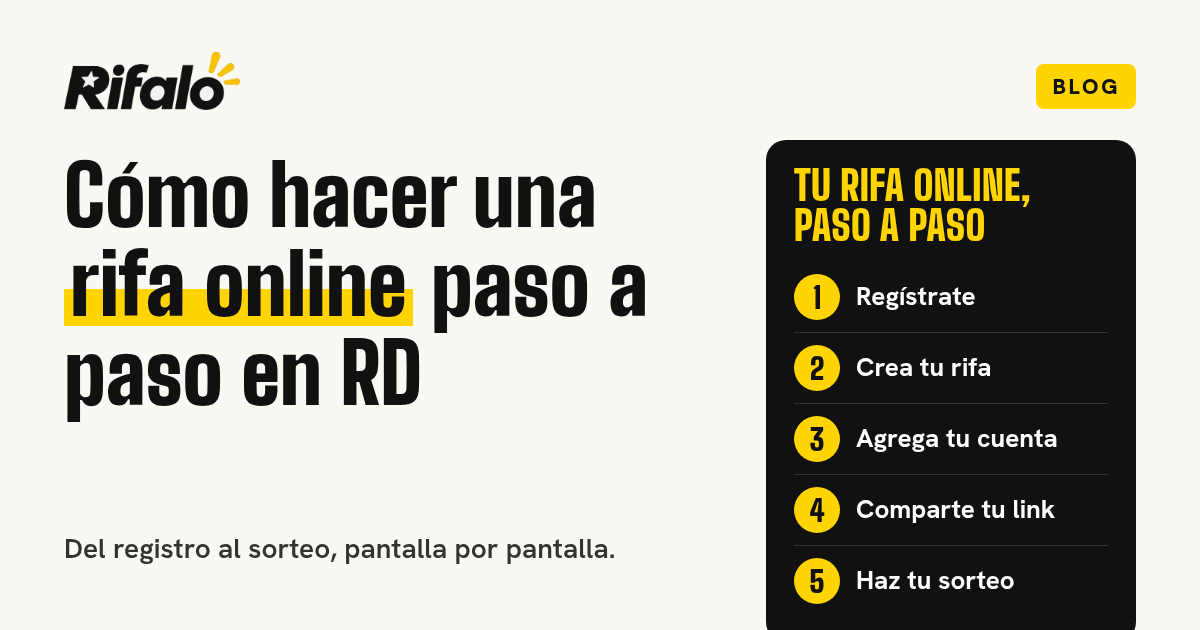
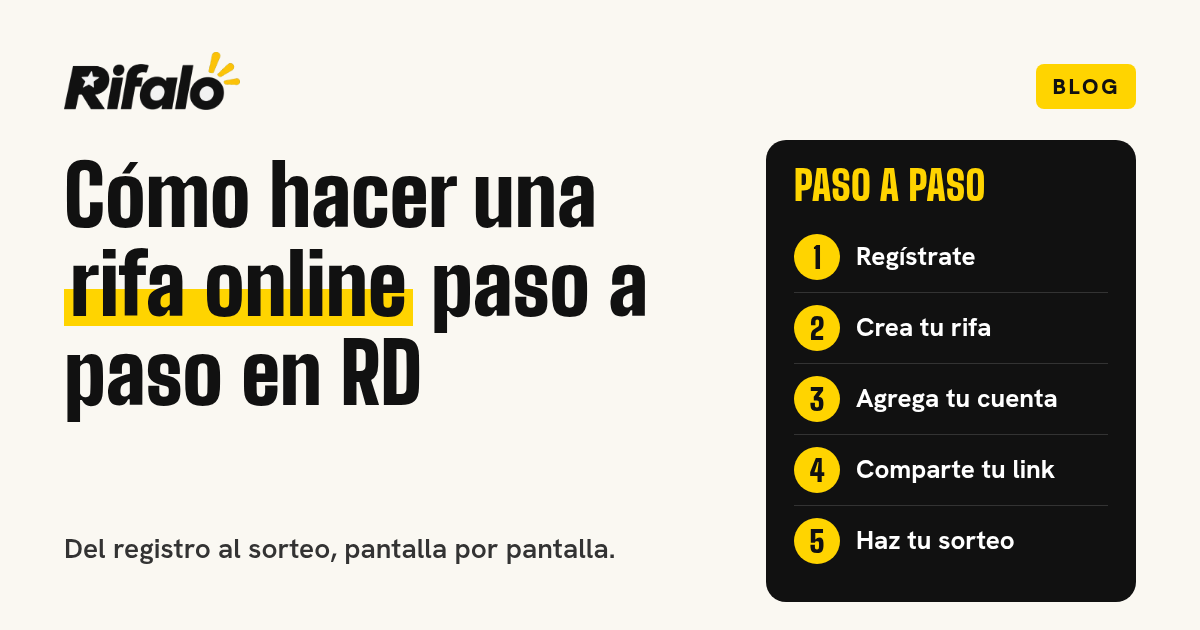
Post 4: drop licensing section for now; updated covers

Changed region(s): [[0.6167, 0.2413, 0.9558, 1.0]]

diff --git a/content/blog/como-hacer-una-rifa-online.md b/content/blog/como-hacer-una-rifa-online.md
@@ -1,8 +1,8 @@
 ---
 slug: como-hacer-una-rifa-online
 seoTitle: Cómo hacer una rifa online paso a paso en RD
-h1: Cómo hacer una rifa online paso a paso, desde el permiso hasta el sorteo
-metaDescription: Guía para organizar tu rifa online en República Dominicana: el permiso, el premio, los boletos, la cuenta para cobrar, los comprobantes y el sorteo.
+h1: Cómo hacer una rifa online paso a paso, desde el premio hasta el sorteo
+metaDescription: Guía para organizar tu rifa online en República Dominicana: el premio, los boletos, la cuenta para cobrar, los comprobantes y el sorteo.
 date: 2026-11-25
 published: false
 coverImage: /blog/como-hacer-una-rifa-online/cover.png
@@ -10,8 +10,6 @@ coverAlt: Portada de Rifalo con el logo, la etiqueta Blog y el título de la not
 faq:
   - q: ¿Cuánto cuesta hacer una rifa online en Rifalo?
     a: Crear tu cuenta es gratis y no pide tarjeta. El plan gratis incluye hasta 250 boletos al mes. La tarjeta solo se pide si pasas a Plus o Unlimited.
-  - q: ¿Necesito permiso para hacer una rifa en República Dominicana?
-    a: La Ley 86-26 dice que las rifas se hacen con una licencia del Consejo de Juegos de Azar. Pregunta en la DGJA qué te piden para tu caso.
   - q: ¿Cómo me pagan los compradores?
     a: Te transfieren directo a tu cuenta y suben el comprobante en tu rifa. Tú lo apruebas desde tu panel.
   - q: ¿Cuántos boletos puede comprar una persona?
@@ -22,28 +20,21 @@ ctaTitle: Tu rifa online puede estar publicada hoy.
 ctaText: Crea tu cuenta en Rifalo, arma tu rifa con tu nombre y tus paquetes, y comparte tu link. Tus compradores suben el comprobante y tú lo apruebas en un solo lugar.
 ctaButton: Crear mi cuenta gratis
 ctaHref: /signup
-methodNote: Datos de PostHog y Supabase de Rifalo. Celular: 4,178 visitantes del organizador de alto volumen y 209 visitantes de otras rifas. Compras grandes: 341 compras confirmadas del organizador de alto volumen. Es un solo caso, no una regla general. Ley 86-26, Gaceta Oficial núm. 11263 del 2 de octubre de 2026, artículos 112 y 113.
+methodNote: Datos de PostHog y Supabase de Rifalo. Celular: 4,178 visitantes del organizador de alto volumen y 209 visitantes de otras rifas. Compras grandes: 341 compras confirmadas del organizador de alto volumen. Es un solo caso, no una regla general.
 emailSubjects:
   - Tu rifa online, paso a paso
   - Antes de vender tu primer boleto, mira esto
   - 11 pasos para publicar tu rifa hoy
-emailPreviewText: Del permiso al sorteo: cómo armar tu rifa online en Rifalo.
+emailPreviewText: Del premio al sorteo: cómo armar tu rifa online en Rifalo.
 emailButtonLabel: Ver los 11 pasos
 emailBody: |
-  Armamos una guía con todo lo que necesitas para hacer tu rifa online, en orden. Tres cosas para empezar hoy:
+  Armamos una guía con todo lo que necesitas para hacer tu rifa online, en orden. Dos cosas para empezar hoy:
 
-  - Pregunta en la DGJA qué permiso necesitas antes de vender.
   - Sube una foto real del premio que se vea bien en el celular. El 98.9% de los visitantes de un organizador de alto volumen entró desde el teléfono.
   - Crea al menos un paquete de boletos para quien quiere comprar varios.
 ---
 
-Hacer una rifa online no es solo subir un flyer. Hay que pensar en el permiso, el premio, cuántos boletos vas a vender, cómo te van a pagar y cómo vas a escoger al ganador. Aquí va todo, en orden, con los pasos que haces en Rifalo y lo que vimos en los datos de un organizador de alto volumen.
-
-## Antes de empezar: averigua qué permiso necesitas
-
-Desde octubre de 2026, la [Ley 86-26](https://consultoria.gov.do/api/document/3406364) regula los juegos de azar en República Dominicana. Su artículo 112 dice que las rifas, benéficas o no, las hacen personas o empresas con una licencia del Consejo de Juegos de Azar, por el tiempo que dure la rifa. El artículo 113 dice que los requisitos y la tasa los fija ese Consejo por resolución.
-
-Qué hacer: antes de vender, pregunta en la [Dirección General de Juegos de Azar (DGJA)](https://dgja.gob.do) qué te piden para tu rifa. Esta guía no es asesoría legal.
+Hacer una rifa online no es solo subir un flyer. Hay que pensar en el premio, cuántos boletos vas a vender, cómo te van a pagar y cómo vas a escoger al ganador. Aquí va todo, en orden, con los pasos que haces en Rifalo y lo que vimos en los datos de un organizador de alto volumen.
 
 ## Paso 1: Define el premio, el precio y la cantidad de boletos
 
@@ -109,11 +100,10 @@ Qué hacer: sigue la guía para [promocionar tu rifa por WhatsApp e Instagram](/
 
 En Rifalo, el ganador lo escoges tú, con el método que tú decidas. Rifalo no hace el sorteo.
 
-Qué hacer: haz el sorteo como lo dijiste al principio y según lo que te pida tu licencia. Hazlo en vivo y publica el resultado y la entrega del premio.
+Qué hacer: haz el sorteo como lo dijiste al principio. Hazlo en vivo y publica el resultado y la entrega del premio.
 
 ## Checklist
 
-- Permiso consultado con la DGJA
 - Premio, precio y cantidad de boletos definidos
 - Foto real del premio que se vea en el celular
 - Fecha de cierre que puedas cumplir
